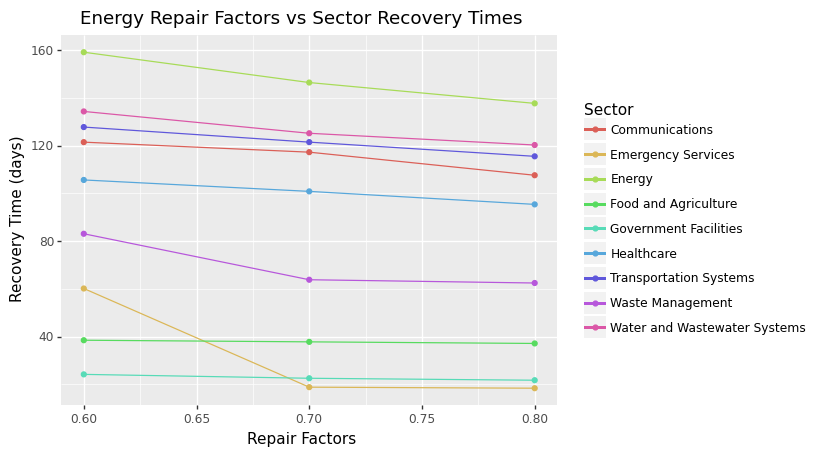
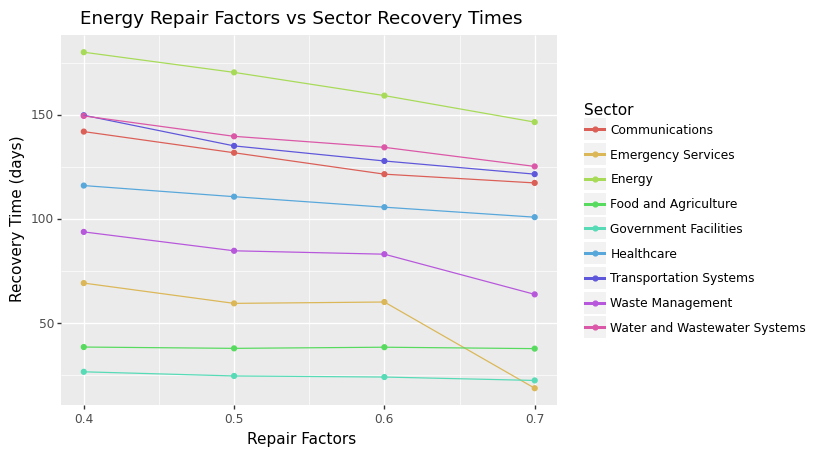
begin report summary

diff --git a/sensitivity_GUI.py b/sensitivity_GUI.py
@@ -4,6 +4,7 @@
 
 #import statements
 import sys
+import numpy as np
 if (sys.version_info > (3, 0)):
   import tkinter as tk
 else:
@@ -16,17 +17,17 @@ import seaborn as sns
 import pandas as pd
 import matplotlib.pyplot as plt
 from shutil import copyfile
+from fpdf import FPDF
+import PyPDF2
+from PIL import Image
 import os
 #import geopandas
 if (sys.version_info > (3,0)):
   from tkinter.filedialog import askopenfilename
-else:
-  from tkFileDialog import askopenfilename
-
-if (sys.version_info > (3,0)):
   from tkinter.filedialog import asksaveasfile
 else:
-  from tkFileDialog import asksaveasfile
+  from tkFileDialog import askopenfilename
+  from tkFileDialog import asksaveasfile 
 
 from plotnine import *
 
@@ -102,32 +103,27 @@ class sensitivityAnalysis(object):
         data = json.load(json_data)
         start = self.min
         step = (self.max-self.min)/self.steps
-        print(start)
         orders, coeffs, k = coefficients_from_file.load_file(dir_path + "//"+ "default.csv")
         results = pd.DataFrame()
         sectorInt = sectors.index(self.sector)
-        print(self.steps)
         for i in range(self.steps):
             print("looping")
             if self.parameter == "Repair Factors":
               data["repair_factors"][sectorInt] = start
             elif self.parameter == "Initial Efficiency":
               data["n0"][sectorInt] = start
+            depBackups = list(range(9))
+            depBackups.pop(sectorInt)
+            backs = [sectorInt] * (len(sectors)-1)
             elif self.parameter == "Days Backup":
-              depBackups = list(range(9))
-              depBackups.pop(sectorInt)
               days = [start]*(len(sectors)-1)
-              backs = [sectorInt] * (len(sectors)-1)
               percents = [90] * (len(sectors)-1)
               data["daysBackup"] = days
               data["backupPercent"] = percents
               data["depBackup"] = depBackups
               data["backups"] = backs
             elif self.parameter == "Efficiency of Backups":
-              depBackups = list(range(9))
-              depBackups.pop(sectorInt)
               days = [10] * (len(sectors)-1)
-              backs = [sectorInt] * (len(sectors)-1)
               percents = [start]*(len(sectors)-1)
               data["daysBackup"] = days
               data["backupPercent"] = percents
@@ -147,15 +143,27 @@ class sensitivityAnalysis(object):
             start += step
         plt.style.use('ggplot')
         ggt = self.sector + " " + self.parameter + " vs Sector Recovery Times"
+        slope_results = pd.DataFrame()
+        newSectors = list(set(results['Sector']))
+        for i in range(len(newSectors)):
+          sectorResults = results[results.Sector.eq(newSectors[i])]
+          #print(sectorResults)
+          m, b = np.polyfit(sectorResults['Value'], sectorResults['RT'], 1)
+          #print(sectors[i], m,b)
+          new_row = {'Sector': newSectors[i], 'Slope': m, 'Intercept': b}
+          slope_results = slope_results.append(new_row, ignore_index=True)
+             
         p = ggplot(results, aes(x='Value', y='RT', color = 'Sector')) + xlab(self.parameter) + ylab("Recovery Time (days)") + geom_point() + geom_line() + ggtitle(ggt)
         file_name = self.parameter + "_" + self.sector
         path_name = dir_path + "\\Sensitivity\\"
+        #slope_results.to_csv(path_name + file_name + ".csv", columns=["Sector","Slope","Intercept"])
         p.save(filename=file_name, path = path_name, verbose = False)
-        copyfile(temp_file, fileLoc)
-        splot = sns.lmplot(x='Value', y='RT', hue="Sector", data=results,fit_reg=True)
+        slope_results = slope_results.set_index("Sector")
+        createPdf(result, slope_results)
+        sns_plot = sns.heatmap(slope_results["Slope","Intercept"])
+        sns_plot.savefig(path_name + file_name+"_seaborn.png")
+        copyfile(temp_file, fileLoc) 
         
-        fig = splot.get_figure()
-        fig.savefig("s" + file_name)
                 
 def main():
     LARGE_FONT= ("Verdana", 24)
